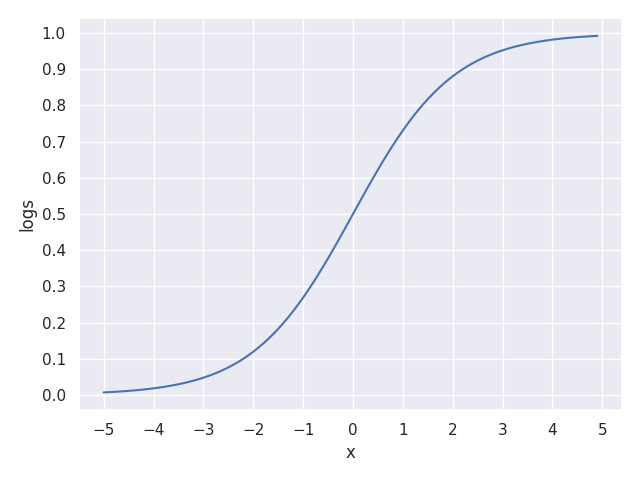
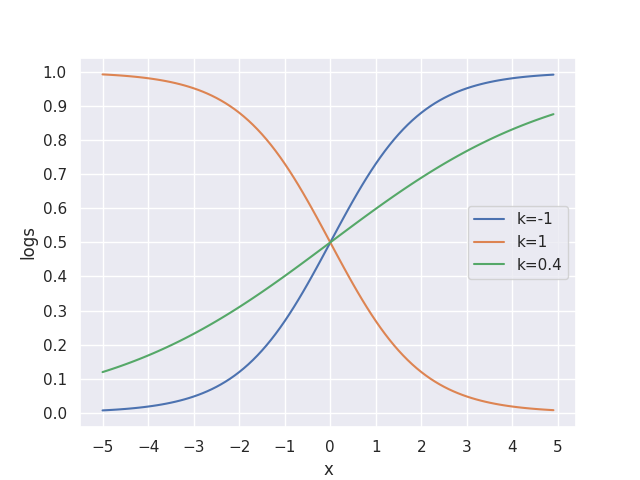
Updates from Overleaf

diff --git a/main.tex b/main.tex
@@ -253,12 +253,12 @@ flexible and allows for a quick and rich construction of knowledge.
 \chapter{State of the art}
 \label{chap:state-of-the-art}
 
-This chapter will mainly cover \textit{Record Linkage}, namely a standard method to link a pair of databases. The next section will give a brief introduction to the record linkage workflow and mention some of the most common terms used in this document. \autoref{sec:rl-as-a-workflow} will show how record linkage can be thought of as a pipeline, and every step will be explained in depth. Finally, \autoref{sec:rl-related-work} will mention related work.
+This chapter will mainly cover \textit{Record Linkage}, a standard method used to link a pair of databases. The next section will give a brief introduction to the record linkage workflow, and mention some of the most common terms used in this document. \autoref{sec:rl-as-a-workflow} will show how record linkage can be thought of as a pipeline, and every step will be explained in depth. Finally, \autoref{sec:rl-related-work} will mention related work.
 
 \section{Introduction to Record Linkage}
 \label{sec:rl-intro}
 
-\textit{Record linkage} is commonly used when there is a need for data integration. This is achieved by finding pairs of records which represent the same underlying \textit{entity}, and by joining them according to previously defined set of criteria. It is possible to apply the technique both for connecting a pair of databases (which we call \textit{catalogs} in our use case) and for removing duplicates from one single catalog.
+\textit{Record linkage} is commonly used when there is a need for data integration. This is achieved by finding pairs of records which represent the same underlying \textit{entity}, and by joining them according to a previously defined set of criteria. It is possible to apply the technique both for, connecting a pair of databases (which we call \textit{catalogs} in this use case) and for removing duplicates from one single catalog.
 
   
 
@@ -2353,34 +2353,93 @@ The assumption that the features are independent among themselves means that the
 \subsection{Logistic Regression}
 \label{sec:clf-lr}
 
-Even though it has \textit{regression} in its name, this model is actually a classifier, and is specifically used to make binary predictions. The probability predicted by this classifier is modelled using a logistic function. This function is defined as:
-
+Even though it has \textit{regression} in its name, this model is actually a classifier, and is specifically used to make binary predictions. To clarify the meaning of \textit{regression}, it is a machine learning task in which the predicted output is continuous (i.e. a numerical value) instead of a class label. The probability predicted by this classifier is modelled using a logistic function. This function is defined as:
+% the goal...
 \begin{equation*}
     f(x) = \frac{L}{1 + e^{-k(x-x_0)}}
 \end{equation*}
 
-Where $L$ is the maximum value this function, which for the current application will be 1 since it is a probability. $x_0$ is the $x$ value at which the function has a value of $L/2$. And $k$ is the steepness of the curve. The function will approaches its limits asymptotically: $L$ as $x$ approaches $+ \infty$, and 0 when it approaches $- \infty$. The following figure shows the curve given by this function with $L=1$, $x_0=0$, and $k=1$.
+Where $L$ is the maximum value this for function, which for the current application will be 1 since it is a probability. $x_0$ is the value on the $x$-axis at which the function has a value of $L/2$. And $k$ is the steepness of the curve. The function will approaches its limits asymptotically: $L$ as $x$ approaches $+ \infty$, and 0 when it approaches $- \infty$. The following figure shows the curves given by this function with $L=1$, $x_0=0$, and different values for $k$.
 
 \begin{figure}[H]
   \centering \includegraphics[width=.5\textwidth]{logistic_function} 
 \end{figure}
 
-The way the logistic regression classifier works is similar to a linear SVM, explained in \autoref{sec:clf-lsvm}. In fact, the implementation of \textit{logistic regression} used is also provided by LIBLINEAR \cite{Fan:2008_liblinear}. As \textit{lsvm}, this model also proceeds to solve an optimization problem with the data available during training, the formulation is quite similar and the only thing that changes is the \textit{loss function}:
+The implementation of logistic regression used for this project works in a similar way as linear SVM, explained in \autoref{sec:clf-lsvm}. In fact, this implementation is also provided by LIBLINEAR \cite{Fan:2008_liblinear}. As \textit{lsvm}, this model proceeds to solve an optimization problem with the data available during training, the formulation is quite similar and the only thing that changes is the \textit{loss function}:
 
 \begin{align*}
     \min_{\|w\|} \frac{1}{2} w^T w + C \sum_{i=1}^n \zeta(w, x_i, y_i) \\ 
-    \zeta(w, x_i, y_i) = \log(1+ e^{-y_i w^Tx_i})
+    \zeta(w, x_i, y_i) = \log(1+ e^{-y_i w^T x_i})
 \end{align*}
 
-This optimization problem is solved with the \textit{coordinate descent method}, presented in \cite{Hsieh:2008_lsvm_coordinated_descent}, and also used for \textit{lsvm}. Remember that LIBLINEAR appends the bias parameter $B$ to the end of $\vec{w}$ and $\vec{x}$, so this does not appear explicitly in the equation to be optimized.
+This optimization problem is solved with the \textit{coordinate descent method}, presented in \cite{Hsieh:2008_lsvm_coordinated_descent} (which is the same method used to solve the optimization for \textit{lsvm}). Remember that LIBLINEAR appends the bias parameter $B$ to the end of $\vec{w}$ and $\vec{x}$, so this does not appear explicitly in the equation to be optimized. $y_i$ is the class label and should be either -1 or 1. Finally, as for \textit{lsvm}, $C$ is a penalty constant.
 
+The goal is to find the parameters, in this case $\vec{w}$, which best describes best the logistic function that represents the actual probability of an event given the an input vector.  
+
+After training the probability \cite{Fan:2008_liblinear} of a class $y$ given the input vector $\vec{x}$ can be obtained by evaluating the logistic function with the parameters found during optimization.
+
+\begin{equation}
+    P(y | \vec{x}) = \frac{1}{1+ e^{-y w^T x}}
+\end{equation}on
 
 
 
 \subsection{Random Forest}
 \label{sec:clf-rgc}
 
-implemented by sklear \cite{scikit-learn}
+An \textit{ensemble forest} \cite{breiman2001random_forest} is a collection of \textit{decision trees} classifiers. This is actually an ensemble, specifically a \textit{bagging ensemble}, which will be explained in further detain in \autoref{sec:ensemble-models}. The \textit{decision tree} classifier will be explained shortly.
+
+The idea behind \textit{random forest} is to have a collection of \textit{decision trees} which have been trained on different subsets of the data. The idea is to take simple, and potentially unstable models, and join their predictions so that the final predictor has less variace \cite{breiman1996_perturbing}.
+
+When creating a random forest, a collection of $k$ decision trees is created. If the training data $T$ is composed of $n$ samples then each decision tree is trained on $n$ samples. However, instead of giving all trees the same set of samples, what is done is that a new training set $T_i'$ is obtained for each tree. This $T_i'$ is constructed by random sampling, with replacement, until the amount of samples in $T_i'$ is the same as in $T$. \textit{With replacement} means that sampling the same entry from $T$ multiple times is allows. 
+
+Each \textit{decision tree} is trained individually, on their own training set $T_i'$. And when it comes the time to predict the label for a feature vector $x$, the prediction of all decision trees will be asked for, and these will be averaged to get the final prediction \cite{scikit-learn}.
+
+The implementation of \textit{random forest}, and of \textit{decision trees}, comes from the Scikit-Learn \cite{scikit-learn} library.
+
+
+\subsubsection{Decision Tree}
+
+A \textit{decision tree}, as the name implies, is just a series of simple \textit{decisions rules} which are implied from the data during training. These rules are of form: \textit{if something then do this, otherwise do this other thing}. Most commonly than not, decision trees have multiple levels, meaning that these decisions rules are nested. 
+
+\begin{figure}[H]
+  \centering \includegraphics[width=.5\textwidth]{decision_tree} 
+  \caption{Example of a decision tree which classify fruits according to their shape, solor, and weight.}
+  \label{fig:decision-tree-example}
+\end{figure}
+
+It can be seen that at each step in the decision tree in \autoref{fig:decision-tree-example} a test on a different \textit{value} is made, and each branch specifies what to do depending on the outcome of said test. The \textit{leaves} (i.e. the bottom nodes) of the tree specify the outcome of the evaluation. The top node of the tree is called the \textit{root}, and specifies the starting point for the evaluation. 
+
+The first node created for a new decision tree is the \textit{root node}. The way in which the algorithm decides which attribute to test at each node is by finding the test which will make the greatest reduction on the entropy of the subsets, or in other words, the greatest increase in \textit{information gain}. Both of these concepts are explained further in depth below. 
+
+In example \autoref{fig:decision-tree-example} the first test made is on the shape of the fruit, if multiple points are evaluated on this decision tree at the same time then it can thought of as if they splitted at this node: all \textit{spherical} fruits go to the left branch, while all those that are not spherical take the right branch. These two divisions are what are referred two when saying that the entropy is measured on the resulting subsets. 
+
+\textit{Entropy} is no other than the degree of disorder in a set. A completely homogeneous set has an entropy of 0, while the largest value is obtained when the different classes in the set have the same amount of representatives. For the current project, the amount of classes being used is 2 (match and non-match). When using only two classes, the maximum value for the entropy is 1. The total entropy of a set $S$ is measured with the following formula:
+
+\begin{equation*}
+    H(S) = \sum_{i=1}^C - p_i \log_2 p_i
+\end{equation*}
+
+Where $C$ are all the classes in the set, and $p_i$ is the percentage of times that class $i$ appears in the set. To calculate the entropy of the subsets, after splitting the data on a node, the sum of the entropy of all subsets needs to be calculated. Continuing with the fruits example, say the set coming from the node which did the splitting is $T$, and there are $z \in T$ which are \textit{spherical}, and $k \in T$ which are not. The entropy after splitting on whether the fruit is spherical or not is calculated as: 
+
+\begin{equation*}
+    H(S | Spherical) = \frac{|z|}{|T|}H(z) + \frac{|k|}{|T|}H(k)
+\end{equation*}
+
+Where $|\cdot|$ denotes the amount of elements in the set. It can be seen that the above is the entropy of each subset weighted by the percentage of elements in that subset with respect to the number of elements in the parent set (which is $T$ in this case). 
+
+In more general terms, the above can be seen as a way in which to measure the total entropy of a set after it has been splitted on an attribute $A$. Finally, the information gain is just the change in entropy obtained when splitting the original set on said $A$.
+
+\begin{equation*}
+    IG(S,A) = H(S) - H(S | A)
+\end{equation*}
+
+The attribute on which each node splits is then selected as:
+
+\begin{equation*}
+    \underset{A}{\mathrm{argmax}}\ IG(S, A)
+\end{equation*}
+
 
 \subsection{Single Layer Perceptron}
 \label{sec:clf-slp}
@@ -2554,6 +2613,8 @@ For the current project, the evaluation of the hyperparameters was done by perfo
 Since the grid search procedure, plus the 5-fold cross validation, is quite a lengthy procedure, it was chosen to perform this optimization by only evaluating the performance of the models on \textit{Discogs/Musician}. The procedure searches for the combination of hyperparameters which makes the classifier give the best \textit{F1} score.
 
 The following tables show the hyperparameters tried for each for each baseline algorithm. In bold are the hyperparameter which were chosen as the best by the grid search procedure. 
+
+\todo[inline,color=blue!25]{explain those parameters that weren't mentioned in the model description.}
 
 \subsubsection{Naive Bayes}
 
